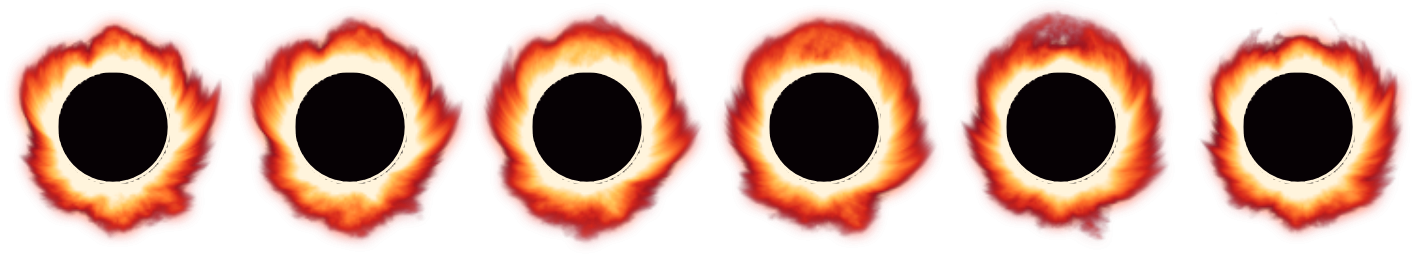
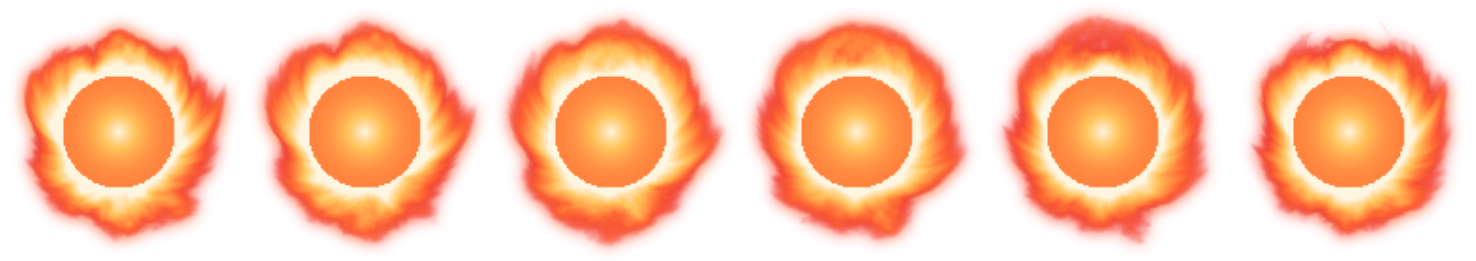
Berserker effects: brighter fire, a red moon, sparks instead of blood, no black smoke
His colours lose their near-black: rage fire and torn ground burn bright red-orange,
Crimson Eclipse's black sun is now a blazing red moon, heavy blows and bleeding spray
hot sparks instead of blood, Demon Form's glow and shadow are hot red, and the black
smoke round his feet is gone. Same style as the other warrior paths.

diff --git a/src/render/fx-sheets.js b/src/render/fx-sheets.js
@@ -14,14 +14,14 @@ export const FX_SHEETS = {
   celspingold: { w: 282, h: 282, n: 7, fps: 28, px: 141, py: 141, d: 3, loop: false },
   celspinred: { w: 282, h: 282, n: 7, fps: 28, px: 141, py: 141, d: 3, loop: false },
   celhit: { w: 204, h: 203, n: 6, fps: 30, px: 101, py: 104, d: 3, loop: false },
-  celhitred: { w: 161, h: 169, n: 6, fps: 30, px: 83, py: 74, d: 3, loop: false },
+  celhitred: { w: 163, h: 175, n: 6, fps: 30, px: 83, py: 74, d: 3, loop: false },
   celcross: { w: 204, h: 194, n: 6, fps: 30, px: 113, py: 81, d: 3, loop: false },
   celclaw: { w: 226, h: 208, n: 7, fps: 26, px: 113, py: 95, d: 3, loop: false },
   celholyhit: { w: 245, h: 245, n: 7, fps: 24, px: 122, py: 122, d: 3, loop: false },
   celcrit: { w: 265, h: 259, n: 6, fps: 26, px: 133, py: 130, d: 3, loop: false },
   celpillar: { w: 159, h: 334, n: 8, fps: 20, px: 79, py: 303, d: 3, loop: false },
   celpillarholy: { w: 179, h: 334, n: 8, fps: 20, px: 89, py: 303, d: 3, loop: false },
-  celpillarrage: { w: 175, h: 335, n: 8, fps: 20, px: 87, py: 317, d: 3, loop: false },
+  celpillarrage: { w: 177, h: 336, n: 8, fps: 20, px: 88, py: 317, d: 3, loop: false },
   celpillarice: { w: 179, h: 337, n: 8, fps: 20, px: 89, py: 317, d: 3, loop: false },
   celpillarwind: { w: 176, h: 335, n: 8, fps: 20, px: 88, py: 317, d: 3, loop: false },
   celpillarshadow: { w: 175, h: 336, n: 8, fps: 20, px: 87, py: 317, d: 3, loop: false },
@@ -29,7 +29,7 @@ export const FX_SHEETS = {
   celpillarstorm: { w: 127, h: 335, n: 8, fps: 20, px: 61, py: 306, d: 3, loop: false },
   celring: { w: 272, h: 271, n: 6, fps: 24, px: 136, py: 135, d: 3, loop: false },
   celringholy: { w: 274, h: 273, n: 6, fps: 24, px: 137, py: 136, d: 3, loop: false },
-  celringrage: { w: 265, h: 263, n: 6, fps: 24, px: 133, py: 132, d: 3, loop: false },
+  celringrage: { w: 266, h: 265, n: 6, fps: 24, px: 133, py: 133, d: 3, loop: false },
   celringice: { w: 268, h: 266, n: 6, fps: 24, px: 134, py: 133, d: 3, loop: false },
   celringwind: { w: 265, h: 263, n: 6, fps: 24, px: 133, py: 132, d: 3, loop: false },
   celringshadow: { w: 265, h: 263, n: 6, fps: 24, px: 133, py: 132, d: 3, loop: false },
@@ -40,19 +40,18 @@ export const FX_SHEETS = {
   celringsky: { w: 268, h: 266, n: 6, fps: 24, px: 134, py: 133, d: 3, loop: false },
   celquake: { w: 270, h: 114, n: 9, fps: 22, px: 119, py: 78, d: 3, loop: false },
   celquakegold: { w: 238, h: 191, n: 9, fps: 22, px: 116, py: 154, d: 3, loop: false },
-  celquakered: { w: 294, h: 144, n: 9, fps: 22, px: 148, py: 110, d: 3, loop: false },
+  celquakered: { w: 294, h: 148, n: 9, fps: 22, px: 148, py: 114, d: 3, loop: false },
   celdust: { w: 151, h: 118, n: 7, fps: 20, px: 66, py: 82, d: 3, loop: false },
   celfire: { w: 144, h: 170, n: 8, fps: 16, px: 72, py: 140, d: 3, loop: true },
-  celragefire: { w: 124, h: 156, n: 8, fps: 16, px: 61, py: 146, d: 3, loop: true },
-  celblood: { w: 226, h: 156, n: 6, fps: 22, px: 113, py: 56, d: 3, loop: false },
-  celeclipse: { w: 237, h: 254, n: 6, fps: 12, px: 113, py: 127, d: 3, loop: true },
-  celdemonglow: { w: 128, h: 154, n: 4, fps: 8, px: 64, py: 140, d: 3, loop: true },
+  celragefire: { w: 130, h: 157, n: 8, fps: 16, px: 64, py: 146, d: 3, loop: true },
+  celblood: { w: 202, h: 135, n: 6, fps: 22, px: 103, py: 83, d: 3, loop: false },
+  celeclipse: { w: 246, h: 261, n: 6, fps: 12, px: 118, py: 131, d: 3, loop: true },
+  celdemonglow: { w: 148, h: 165, n: 4, fps: 8, px: 74, py: 141, d: 3, loop: true },
   celholyglow: { w: 148, h: 161, n: 4, fps: 8, px: 74, py: 137, d: 3, loop: true },
-  celblacksmoke: { w: 123, h: 103, n: 6, fps: 10, px: 62, py: 98, d: 3, loop: true },
   celragecracks: { w: 237, h: 89, n: 4, fps: 8, px: 132, py: 45, d: 3, loop: true },
-  celgash: { w: 221, h: 132, n: 8, fps: 20, px: 110, py: 86, d: 3, loop: false },
-  celembers: { w: 113, h: 224, n: 8, fps: 14, px: 57, py: 198, d: 3, loop: true },
-  celshockred: { w: 273, h: 272, n: 6, fps: 24, px: 136, py: 136, d: 3, loop: false },
+  celgash: { w: 224, h: 132, n: 8, fps: 20, px: 111, py: 86, d: 3, loop: false },
+  celembers: { w: 114, h: 231, n: 8, fps: 14, px: 58, py: 205, d: 3, loop: true },
+  celshockred: { w: 274, h: 274, n: 6, fps: 24, px: 137, py: 137, d: 3, loop: false },
   celshield: { w: 235, h: 227, n: 7, fps: 20, px: 117, py: 104, d: 3, loop: false },
   celshieldsteel: { w: 235, h: 227, n: 7, fps: 20, px: 117, py: 104, d: 3, loop: false },
   celshieldred: { w: 236, h: 228, n: 7, fps: 20, px: 118, py: 105, d: 3, loop: false },
@@ -61,7 +60,7 @@ export const FX_SHEETS = {
   celsteelsword: { w: 153, h: 376, n: 5, fps: 18, px: 77, py: 364, d: 3, loop: false },
   cellightcross: { w: 320, h: 322, n: 6, fps: 18, px: 165, py: 169, d: 3, loop: false },
   celsteelcross: { w: 320, h: 322, n: 6, fps: 18, px: 165, py: 169, d: 3, loop: false },
-  celragecross: { w: 320, h: 317, n: 6, fps: 18, px: 165, py: 169, d: 3, loop: false },
+  celragecross: { w: 325, h: 328, n: 6, fps: 18, px: 166, py: 169, d: 3, loop: false },
   celmotes: { w: 99, h: 161, n: 8, fps: 10, px: 48, py: 155, d: 3, loop: true },
   celshout: { w: 284, h: 263, n: 6, fps: 20, px: 142, py: 128, d: 3, loop: false },
   celshoutred: { w: 284, h: 263, n: 6, fps: 20, px: 142, py: 128, d: 3, loop: false },
@@ -71,13 +70,13 @@ export const FX_SHEETS = {
   celstreakgold: { w: 285, h: 104, n: 4, fps: 20, px: 150, py: 55, d: 3, loop: false },
   celplates: { w: 228, h: 231, n: 7, fps: 18, px: 114, py: 115, d: 3, loop: false },
   celplatesgold: { w: 228, h: 231, n: 7, fps: 18, px: 114, py: 115, d: 3, loop: false },
-  celplatesred: { w: 226, h: 228, n: 7, fps: 18, px: 113, py: 114, d: 3, loop: false },
+  celplatesred: { w: 228, h: 231, n: 7, fps: 18, px: 114, py: 115, d: 3, loop: false },
   celcharge: { w: 201, h: 200, n: 6, fps: 18, px: 100, py: 101, d: 3, loop: true },
   celchargegold: { w: 201, h: 200, n: 6, fps: 18, px: 100, py: 101, d: 3, loop: true },
   celchargered: { w: 201, h: 200, n: 6, fps: 18, px: 100, py: 101, d: 3, loop: true },
   celembholy: { w: 128, h: 155, n: 5, fps: 12, px: 64, py: 82, d: 3, loop: false },
   celembsteel: { w: 134, h: 151, n: 5, fps: 12, px: 67, py: 82, d: 3, loop: false },
-  celembrage: { w: 124, h: 173, n: 5, fps: 12, px: 62, py: 80, d: 3, loop: false },
+  celembrage: { w: 126, h: 176, n: 5, fps: 12, px: 63, py: 82, d: 3, loop: false },
   celwindspin: { w: 175, h: 175, n: 6, fps: 18, px: 88, py: 88, d: 3, loop: true },
   celleaves: { w: 266, h: 113, n: 7, fps: 16, px: 69, py: 64, d: 3, loop: false },
   celwindhit: { w: 195, h: 161, n: 6, fps: 24, px: 103, py: 74, d: 3, loop: false },
@@ -100,12 +99,12 @@ export const FX_SHEETS = {
   celblast: { w: 228, h: 210, n: 8, fps: 20, px: 115, py: 172, d: 3, loop: false },
   celdeadeye: { w: 245, h: 245, n: 6, fps: 20, px: 122, py: 122, d: 3, loop: false },
   celswordform: { w: 153, h: 376, n: 5, fps: 14, px: 77, py: 364, d: 3, loop: false },
-  celragesword: { w: 153, h: 373, n: 5, fps: 18, px: 77, py: 364, d: 3, loop: false },
+  celragesword: { w: 157, h: 380, n: 5, fps: 18, px: 79, py: 365, d: 3, loop: false },
   celswordformgold: { w: 159, h: 383, n: 5, fps: 14, px: 80, py: 366, d: 3, loop: false },
-  celswordformred: { w: 153, h: 373, n: 5, fps: 14, px: 77, py: 364, d: 3, loop: false },
+  celswordformred: { w: 157, h: 380, n: 5, fps: 14, px: 79, py: 365, d: 3, loop: false },
   celfissure: { w: 483, h: 147, n: 9, fps: 20, px: 242, py: 116, d: 3, loop: false },
   celfissuregold: { w: 486, h: 157, n: 9, fps: 20, px: 243, py: 124, d: 3, loop: false },
-  celfissurered: { w: 483, h: 147, n: 9, fps: 20, px: 242, py: 116, d: 3, loop: false },
+  celfissurered: { w: 485, h: 153, n: 9, fps: 20, px: 243, py: 121, d: 3, loop: false },
   celvalor: { w: 132, h: 163, n: 8, fps: 10, px: 58, py: 171, d: 3, loop: true },
   celhawkhit: { w: 203, h: 170, n: 6, fps: 24, px: 108, py: 66, d: 3, loop: false },
   celfeathers: { w: 242, h: 162, n: 7, fps: 16, px: 61, py: 58, d: 3, loop: false },

diff --git a/tools/fx-art.js b/tools/fx-art.js
@@ -17,10 +17,10 @@
   const PAL = {
     steel: ['#ffffff', '#e4f3ff', '#9fd2ff', '#6f9cf0', '#4f5fcc'],
     holy: ['#ffffff', '#fff6d0', '#ffdc78', '#ffad62', '#d9776a'],
-    // The Berserker is demonic (the player's call): a white-hot ember core, ember orange, blood
-    // crimson, deep blood, and an ink near black with violet in it. Dark tones mostly, so the glow
-    // (which only blooms from bright parts) comes off as embers burning out of black and blood.
-    rage: ['#fff0e2', '#ff7a4e', '#e01c3c', '#7c0a34', '#1e0618'],
+    // The Berserker's rage: a white-hot ember core, ember orange, hot red, deep red, inked in deep
+    // raspberry. Bright and fiery (the player asked for no black, no gore), so it sits with the
+    // other jobs' light.
+    rage: ['#fff0e2', '#ff7a4e', '#e8344e', '#b8183c', '#8e1f48'],
     arcane: ['#ffffff', '#f1e6ff', '#cfa8ff', '#a374f0', '#6f4ac8'],
     ice: ['#ffffff', '#e2fbff', '#9ae9ff', '#5ab8ee', '#3a78c8'],
     fire: ['#ffffff', '#fff1c0', '#ffbe72', '#ff8a5c', '#cc566a'],
@@ -925,41 +925,10 @@
     };
   }
   // Demon Form's: blood red, embers. Judgment's: gold light, motes of light.
-  E.demonglow = glowOf(['rgba(255, 122, 78, 0.75)', 'rgba(224, 28, 60, 0.5)', 'rgba(124, 10, 52, 0.22)', 'rgba(124, 10, 52, 0)'], PAL.rage, 400);
+  E.demonglow = glowOf(['rgba(255, 196, 120, 0.75)', 'rgba(255, 108, 72, 0.5)', 'rgba(232, 52, 78, 0.22)', 'rgba(232, 52, 78, 0)'], PAL.rage, 400);
   E.holyglow = glowOf(['rgba(255, 255, 240, 0.8)', 'rgba(255, 220, 120, 0.55)', 'rgba(255, 173, 98, 0.22)', 'rgba(255, 173, 98, 0)'], PAL.holy, 420);
 
-  // Black smoke curling up round a raging Berserker's feet, with embers rising through it.
-  E.blacksmoke = {
-    w: 170, h: 120, n: 6, fps: 10, px: 85, py: 112, loop: true,
-    draw(ctx, i) {
-      const [core, light, , deep, ink] = PAL.rage;
-      const R = rng(41);
-      for (let j = 0; j < 8; j++) {
-        const life = ((i / 6) + j / 8) % 1;
-        const x = 30 + R() * 110 + Math.sin(life * 5 + j) * 8;
-        const y = 104 - life * 80;
-        const r = (8 + R() * 10) * (0.6 + life * 0.7);
-        ctx.globalAlpha = 1 - life * 0.75;
-        ctx.beginPath();
-        ctx.arc(x, y, r + 2.5, 0, TAU);
-        ctx.fillStyle = ink;
-        ctx.fill();
-        ctx.beginPath();
-        ctx.arc(x, y, r, 0, TAU);
-        ctx.fillStyle = '#2a0c22';
-        ctx.fill();
-        ctx.beginPath();
-        ctx.arc(x - r * 0.3, y - r * 0.35, r * 0.45, 0, TAU);
-        ctx.fillStyle = deep;
-        ctx.fill();
-      }
-      ctx.globalAlpha = 1;
-      for (let j = 0; j < 5; j++) {
-        const life = ((i / 6) + j / 5 + 0.13) % 1;
-        shard(ctx, [core, light, light, deep, ink], 40 + R() * 90, 100 - life * 95, -Math.PI / 2, 6 * (1 - life) + 2, 1.5);
-      }
-    },
-  };
+
 
   // Cracks of ember light splitting the ground round a Berserker at full Rage, pulsing.
   E.ragecracks = {
@@ -3078,9 +3047,9 @@
   const SUN = ['#ffffff', '#fff3c4', '#ffd36a', '#f0a040'];
   const FLAME = ['#fff6e0', '#ffd27a', '#ff7a3a', '#c8102e'];
   const sunRamp = ramp([[0, '#f0a040'], [0.4, '#ffd36a'], [0.75, '#fff3c4'], [1, '#ffffff']]);
-  const fireRamp = ramp([[0, '#2a040c'], [0.22, '#8a0c1e'], [0.42, '#d8281c'], [0.62, '#ff7028'], [0.82, '#ffc458'], [1, '#fff4dc']]);
+  const fireRamp = ramp([[0, '#b8183c'], [0.3, '#ea3438'], [0.55, '#ff6c34'], [0.8, '#ffc25a'], [1, '#fff6e2']]);
   // Cooling: white-hot, then yellow, orange, red, dull red.
-  const COOL = [FLAME, FLAME, ['#ffd27a', '#ff7a3a', '#e0301c', '#8a0a20'], ['#ff7a3a', '#e0301c', '#c8102e', '#5a0616'], ['#e0301c', '#c8102e', '#8a0a20', '#3a0410'], ['#c8102e', '#8a0a20', '#5a0616', '#2a0208']];
+  const COOL = [FLAME, FLAME, ['#ffd27a', '#ff7a3a', '#ea3438', '#c8204a'], ['#ff7a3a', '#ea3438', '#c8204a', '#a01c48'], ['#ea3438', '#c8204a', '#a01c48', '#8e1f48']];
   const cooled = (k) => COOL[Math.max(0, Math.min(COOL.length - 1, Math.floor(k * COOL.length)))];
 
   // The Paladin's swipes, whirls, dashes, gathering, war cry, plates, shield, sword of light, cross
@@ -3314,24 +3283,7 @@
       }
     },
   };
-  // Black smoke curling up round his feet as Rage builds: soft, churning, dark crimson-black,
-  // thinning as it rises (soft like the Stormcaller's cloud). Loops.
-  const smokeRamp = ramp([[0, '#0e0408'], [0.5, '#2a0c1a'], [1, '#5a2234']]);
-  E.blacksmoke = {
-    w: 170, h: 120, n: 6, fps: 10, px: 85, py: 112, loop: true,
-    draw(ctx, i) {
-      const T = i / 6;
-      painted(ctx, 0, 0, 170, 120, (x, y) => {
-        const up = (112 - y) / 100;
-        const n = (k) => fbm(x / 24 + k * 0.6, y / 24 + (T + k) * 2.2, 5);
-        const flow = n(0) * (1 - T) + n(-1) * T;
-        const body = 1 - Math.abs(x - 85 + (flow - 0.5) * 36 * up) / (62 - up * 18);
-        const edge = Math.min(sstep(0, 30, x), sstep(170, 140, x), sstep(0, 34, y));
-        const v = (body * 0.9 + (flow - 0.5) * 1.4 - up * 0.8) * sstep(-0.05, 0.1, up) * edge;
-        return [Math.max(0, flow - 0.35) * 1.6, sstep(0, 0.6, v) * 0.8];
-      }, smokeRamp);
-    },
-  };
+
   // Molten cracks splitting the ground round him at full Rage, glowing and pulsing (fire's light,
   // no outline). Loops.
   E.ragecracks = {
@@ -3365,25 +3317,40 @@
       }, fireRamp);
     },
   };
-  // Blood bursting from a heavy blow: dark glossy drops flung out and arcing down (no outline).
-  E.blood = asLight(E.blood, PAL.rage, { deep: 0.9, mid: 0.95 });
-  // The black sun of his Crimson Eclipse: a disc of pure black with a thin white-hot rim and a
-  // corona of real fire licking off it, churning. Loops.
+  // A heavy blow (and a monster's bleeding): a flash, then hot sparks spraying out and arcing
+  // down, cooling as they go (no blood: the player asked for none).
+  E.blood = {
+    w: 200, h: 200, n: 6, fps: 22, px: 100, py: 90,
+    draw(ctx, i) {
+      const a = [1, 1, 0.85, 0.6, 0.35, 0.15][i];
+      if (i <= 2) bloomDisc(ctx, 100, 90, [26, 40, 30][i], [26, 40, 30][i], FLAME, 1);
+      const R = rng(29);
+      for (let j = 0; j < 12; j++) {
+        const ang = -Math.PI * (0.05 + R() * 0.9);
+        const sp = 40 + R() * 40;
+        const t = (i + 1) / 6;
+        const x = 100 + Math.cos(ang) * sp * t * 1.6;
+        const y = 90 + Math.sin(ang) * sp * t * 1.6 + t * t * 40;
+        glow(ctx, [[x, y], [x - Math.cos(ang) * 9, y - Math.sin(ang) * 9]], 1.5, cooled(t * 0.8), a);
+      }
+    },
+  };
+  // The blood moon of his Crimson Eclipse: a blazing red moon, white-hot at its heart, in a corona
+  // of real fire licking off it, churning. Loops.
   E.eclipse = {
     w: 260, h: 260, n: 6, fps: 12, px: 130, py: 130, loop: true,
     draw(ctx, i) {
       const T = i / 6;
       painted(ctx, 0, 0, 260, 260, (x, y) => {
         const d = Math.hypot(x - 130, y - 130);
-        if (d < 60) return [0, 1];
+        if (d < 60) return [0.62 + 0.38 * (1 - d / 60) ** 2, 1];
         const ang = Math.atan2(y - 130, x - 130);
         const n = (k) => fbm(Math.cos(ang) * 3 + 5, Math.sin(ang) * 3 + (d / 30) - (T + k) * 3, 5);
         const flick = n(0) * (1 - T) + n(-1) * T;
         const v = 1 - (d - 60) / (14 + flick * 70);
         if (v <= 0) return [0, 0];
-        return [v * 1.2 + (flick - 0.5) * 0.4, sstep(0, 0.3, v)];
-      }, (v) => (v <= 0.01 ? rgb('#060104') : fireRamp(v)));
-      strokePts(ctx, Array.from({ length: 49 }, (_, k) => [130 + Math.cos((k / 48) * TAU) * 60, 130 + Math.sin((k / 48) * TAU) * 60]), 3, '#fff4dc', 1);
+        return [0.2 + v * 0.9 + (flick - 0.5) * 0.3, sstep(0, 0.3, v)];
+      }, fireRamp);
     },
   };
 

diff --git a/src/render/aura.js b/src/render/aura.js
@@ -153,7 +153,6 @@ function rageAura(ctx, x, y, t, s, k, layer) {
       fxSprite(ctx, 'celragecracks', x, y, { t, scale: s * 0.9, sy: 0.6, alpha: 0.95 });
     }
     if (k > 0.1) fxSprite(ctx, 'celembers', x, y, { t, scale: s * (0.4 + 0.3 * k), alpha: Math.min(1, (k - 0.1) * 2) });
-    if (k > 0.15) fxSprite(ctx, 'celblacksmoke', x, y + 2 * s, { t, scale: s * (0.5 + 0.35 * k), alpha: Math.min(0.9, (k - 0.15) * 2) });
     if (k >= 1 && heartbeat(t) < 1) fxSprite(ctx, 'celshockred', x, y, { p: heartbeat(t), scale: s * 0.9, sy: 0.32 });
     if (k > 0.5) fxSprite(ctx, 'celragefire', x, y + 4 * s, { t, scale: s * (0.8 + 0.55 * k), alpha: fire * 0.62 * flicker });
     return;

diff --git a/src/render/scene.js b/src/render/scene.js
@@ -478,7 +478,7 @@ function drawPhantom(ctx, world, look, gear, x, y, state) {
 
 // The two forms' looks: the glow round the hero, and the tint of the shadow (Demon Form only).
 const FORM_LOOKS = {
-  rage: { glow: 'celdemonglow', shadow: '#8a0a24' },
+  rage: { glow: 'celdemonglow', shadow: '#e8344e' },
   holy: { glow: 'celholyglow', shadow: null },
 };
 
